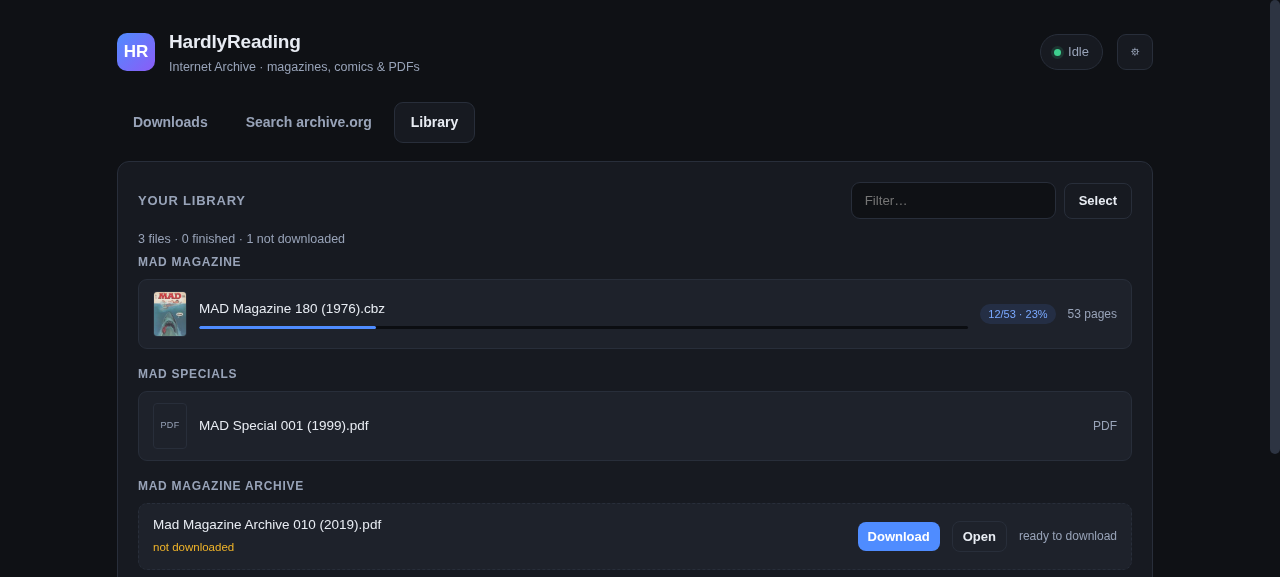
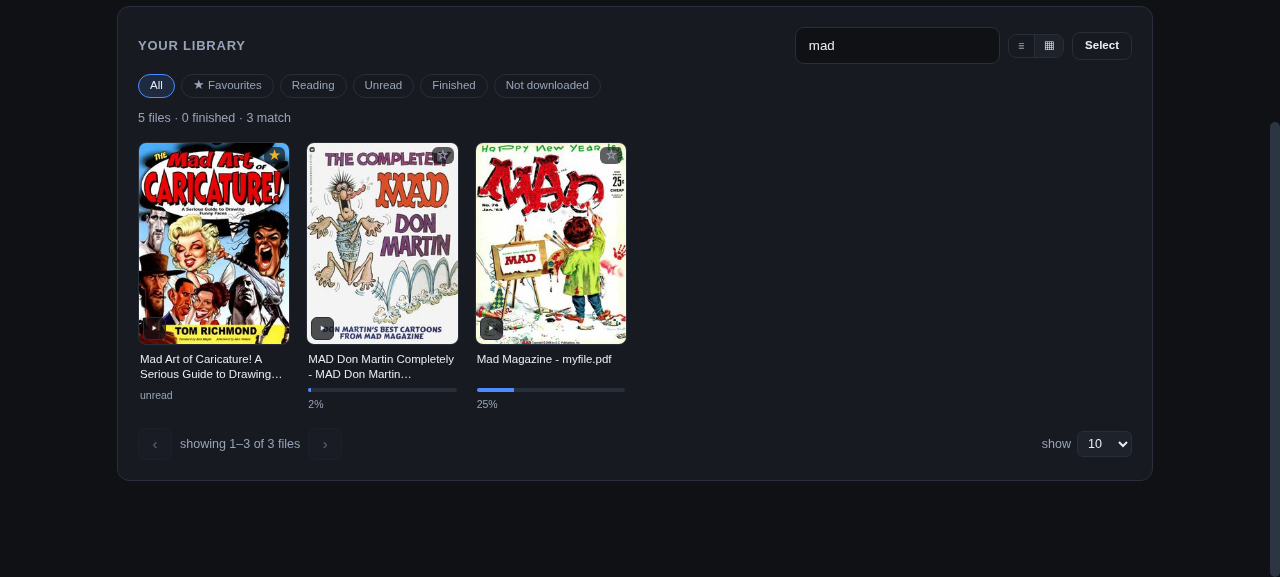
Docs: rewrite README for the current build, re-shoot screenshots (v2.4.3)
README now covers grid/list views, filter chips, favourites, streaming without
downloads, the grouped queue and the start-on-boot switch, and the limitations
list gained the ones that matter: search is live rather than local, streaming
needs a connection, lendable items still fail, PDF covers need poppler, and
start-on-boot is systemd-only.

Screenshots re-captured from the running app: search with descriptions and
covers, library grid, library list with a detail panel open, the finished queue,
and the PDF reader.

diff --git a/engine.py b/engine.py
@@ -126,7 +126,7 @@ def http_json(url: str, timeout: int = 60):
     """GET a URL and return parsed JSON. No retry here — callers that can
     recover (the resolver, the per-item probe) do their own attempts."""
 
-    req = urllib.request.Request(url, headers={"User-Agent": "HardlyReading/2.4.2"})
+    req = urllib.request.Request(url, headers={"User-Agent": "HardlyReading/2.4.3"})
     with urllib.request.urlopen(req, timeout=timeout) as r:
         return json.load(r)
 

diff --git a/server.py b/server.py
@@ -45,7 +45,7 @@ ENGINE = engine.Engine()
 
 
 class Handler(BaseHTTPRequestHandler):
-    server_version = "HardlyReading/2.4.2"
+    server_version = "HardlyReading/2.4.3"
 
     def log_message(self, fmt, *args):
         pass  # quiet

diff --git a/README.md b/README.md
@@ -25,8 +25,6 @@ Everything runs on your own machine. No account, no cloud, no telemetry.
 
 ---
 
-![Download queue](docs/queue.png)
-
 ## How it works
 
 Four files, no framework, no build step:
@@ -80,14 +78,34 @@ UI never drives a download directly — it only posts intent and reads back stat
   missing items are marked unavailable instead of retrying forever.
 - **Komga-ready output** — one folder per series, files named `<Series> NNN (Year).ext`
   so they sort in reading order.
-- **Library + reader** — browse what you downloaded, open a CBZ or PDF, progress
-  is saved server-side in SQLite so it follows you between devices.
+- **Library + reader** — list or cover-grid view, filter chips (favourites,
+  reading, unread, finished, not downloaded), a search box, and favourites.
+  Open a CBZ or PDF; progress is saved server-side in SQLite so it follows you
+  between devices.
+- **Read without downloading** — stream a book's pages straight from
+  archive.org, with the same reader and the same saved position.
+- **A queue that shows its work** — grouped into Downloading now / Needs
+  attention / Waiting / Finished, with per-file progress for concurrent
+  transfers.
 
 ## Screenshots
 
-| Search | Library |
+Search — descriptions under each result, click **more** for the whole blurb;
+tick the ones you want and add them together:
+
+![Search](docs/search.png)
+
+The library, as a cover grid or a list. Filter chips narrow it; the star marks
+favourites; **details** on a row opens size, pages, position and actions:
+
+| Cover grid | List with details |
 |---|---|
-| ![Search](docs/search.png) | ![Library](docs/library.png) |
+| ![Library grid](docs/library.png) | ![Library list](docs/library-list.png) |
+
+The queue says what it is doing — Downloading now, Needs attention, Waiting,
+Finished — and a running job lists every file in flight:
+
+![Download queue](docs/queue.png)
 
 Reader — fits the page, arrow keys to turn, remembers your place:
 
@@ -174,6 +192,22 @@ What that does and does not buy you, plainly:
 - Install prompts need `https://` or `localhost`. On a plain-HTTP LAN address the
   page still works, it just will not offer to install.
 
+### The library: grid, filters, favourites
+
+Two views — a **list** for detail and a **cover grid** for browsing — switched
+with the toggle beside the filter box and remembered per browser.
+
+Filter chips narrow the shelf: **All**, **★ Favourites**, **Reading**, **Unread**,
+**Finished**, **Not downloaded**. They stack with the text filter (which also
+searches descriptions), and the pager counts what is left.
+
+**Favourites** are a star on every row and card, stored in SQLite under the same
+key as reading progress — so a favourite survives a re-scan, a re-download and a
+restart.
+
+PDF covers are rendered from page one with poppler's `pdftoppm` when it is
+installed; without it a PDF keeps a plain "PDF" tile rather than a broken image.
+
 ### The library also shows what you have not downloaded yet
 
 A title the queue knows about but which is not on disk still appears, marked
@@ -233,8 +267,18 @@ stays open.
 
 ## Start it on boot
 
-`contrib/hardlyreading.service` is a systemd user unit. Copy it, point the two
-paths at your install, and enable it:
+There are two ways to do this, and the first one is a switch.
+
+**In the app:** Settings → Start-up → **Start when the computer starts**. It
+writes a systemd user unit for *this* install — its folder, its port, a system
+interpreter — and enables it. Switching it off removes the unit. It is off
+unless you turn it on, and it reports "unsupported" on systems without systemd.
+
+The queue does not depend on this: `state.json` holds it, and aria2 resumes its
+`.aria2` partial files, so a restart continues where it stopped either way.
+
+**By hand**, if you prefer to keep the unit yourself:
+
 
 ```sh
 mkdir -p ~/.config/systemd/user
@@ -282,17 +326,18 @@ once you have started, and a dimmed row with a `finished` badge when you reach
 the end. **Clear reading history** in Settings forgets every saved position —
 files are untouched.
 
-Files land in your downloads folder, under one subfolder per series:
+Files land in your downloads folder — `~/Documents/HardlyReading` unless you
+change it — under one subfolder per series:
 
 ```
-~/Downloads/HardlyReading/
+~/Documents/HardlyReading/
 └── MAD Magazine/
     ├── MAD Magazine 179 (1976).cbz
     └── MAD Magazine 180 (1976).cbz
 ```
 
-Point Komga (or any comic server) at `~/Downloads/HardlyReading` and each
-subfolder becomes a series.
+Point Komga (or any comic server) at that folder and each subfolder becomes a
+series.
 
 ## The reader
 
@@ -319,14 +364,14 @@ The gear in the header opens a panel; changes save as you edit and persist in
 
 | Setting | Default | What it does |
 |---|---|---|
+| Start when the computer starts | **off** | Installs a systemd user unit for this install. The queue survives a restart either way. |
 | Download folder | *empty* | Empty means `~/Documents/HardlyReading`, created on the first download. Point it anywhere else and the Library follows it. |
 | Show "reader" label | on | The small label in the reader header. Off gives a clean page. |
 | Clear reading history | — | Forgets every saved page position. Files stay on disk. |
 | Ask before downloading | on | Show the file plan and total size, then wait for you. |
 | Skip files I already have | on | Drop entries whose checksum is already in the folder. |
 | Komga folder naming | on | One folder per series with issue-ordered filenames. Off keeps archive.org's original filenames in a folder named after the link. |
-| Download folder | `~/Downloads/HardlyReading` | Where files go. |
-| Parallel files | 12 | How many files aria2 fetches at once. |
+| Parallel files | 12 | How many files aria2 fetches at once — the queue card shows each one. |
 | Pause between jobs | 30s | Gap between one job finishing and the next starting. |
 
 Job cards can be **cancelled** before they start and **removed** from the list,
@@ -337,7 +382,8 @@ and library items can be **deleted** (file plus its reading position).
 | What | Windows | macOS | Linux |
 |---|---|---|---|
 | Settings & queue | `%APPDATA%\hardlyreading` | `~/Library/Application Support/hardlyreading` | `~/.config/hardlyreading` |
-| Downloads | `%USERPROFILE%\Downloads\HardlyReading` | `~/Downloads/HardlyReading` | `~/Downloads/HardlyReading` |
+| Downloads | `%USERPROFILE%\Documents\HardlyReading` | `~/Documents/HardlyReading` | `~/Documents/HardlyReading` |
+| Cached covers & streamed pages | under the settings folder: `thumbs/`, `stream/` | same | same |
 
 ## Limitations
 
@@ -364,9 +410,22 @@ Worth knowing before you point it at a 500-issue collection:
   without a rendering library, by counting page objects in the file; PDFs that
   compress their object streams report nothing until pdf.js opens them and
   records the real total with your position.
+- **Search is live, not local.** Every query goes to archive.org; there is no
+  offline catalogue. What *is* stored locally is your reading positions,
+  descriptions, favourites and cached images, in SQLite and two cache folders.
+  archive.org also refuses pages past its 10,000-result ceiling — the search
+  falls back to page 1 and says so.
+- **Read without downloading needs a connection** for every page, and the pages
+  are lower resolution than the file. The reader says so in a note you can
+  dismiss; **Download it** in that note fetches the real file.
+- **Lendable items still won't work.** Items that require borrowing ("restricted",
+  "lending", "borrow") are treated as permanently unavailable — a streaming
+  reader does not get around archive.org's lending.
+- **PDF covers need poppler.** The library renders page one of a PDF with
+  `pdftoppm` when it is installed. Without it a PDF shows a plain tile.
 - **Tested on Linux.** `run.py` handles Windows and macOS paths, the `aria2c.exe`
   lookup and the winget fallback, but has not been run on those platforms — treat
-  them as untested rather than supported.
+  them as untested rather than supported. Start-on-boot is systemd-only.
 
 ## Skipping what you already have
 

diff --git a/CHANGELOG.md b/CHANGELOG.md
@@ -3,7 +3,21 @@
 Notable changes to HardlyReading. Versions are tagged on GitHub with matching
 release notes.
 
-## [2.4.2] — 2026-10-20
+## [2.4.3] — 2026-10-20
+
+### Changed
+
+- README rewritten around what the app does now: cover grid and list views,
+  filter chips and favourites, streaming a book without downloading, the
+  grouped queue, the start-on-boot switch, and PDF covers. Limitations gained
+  the honest ones — search is live rather than local, streaming needs a
+  connection, lendable items still fail, PDF covers need poppler, start-on-boot
+  is systemd-only.
+- Screenshots re-shot from the current build: search with descriptions, library
+  grid, library list with an open detail panel, the finished queue, and the PDF
+  reader.
+
+
 
 ### Fixed
 
